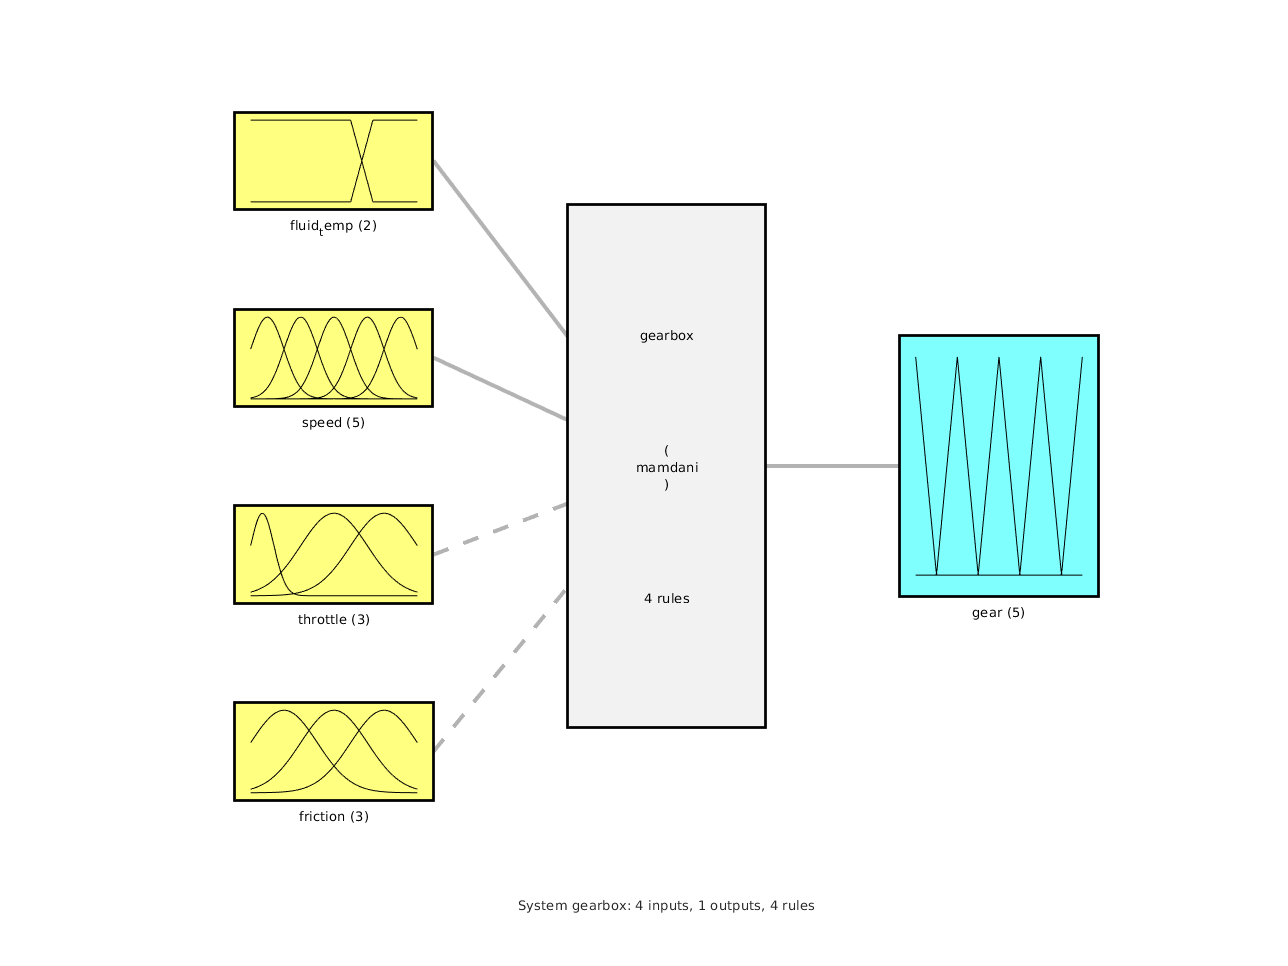
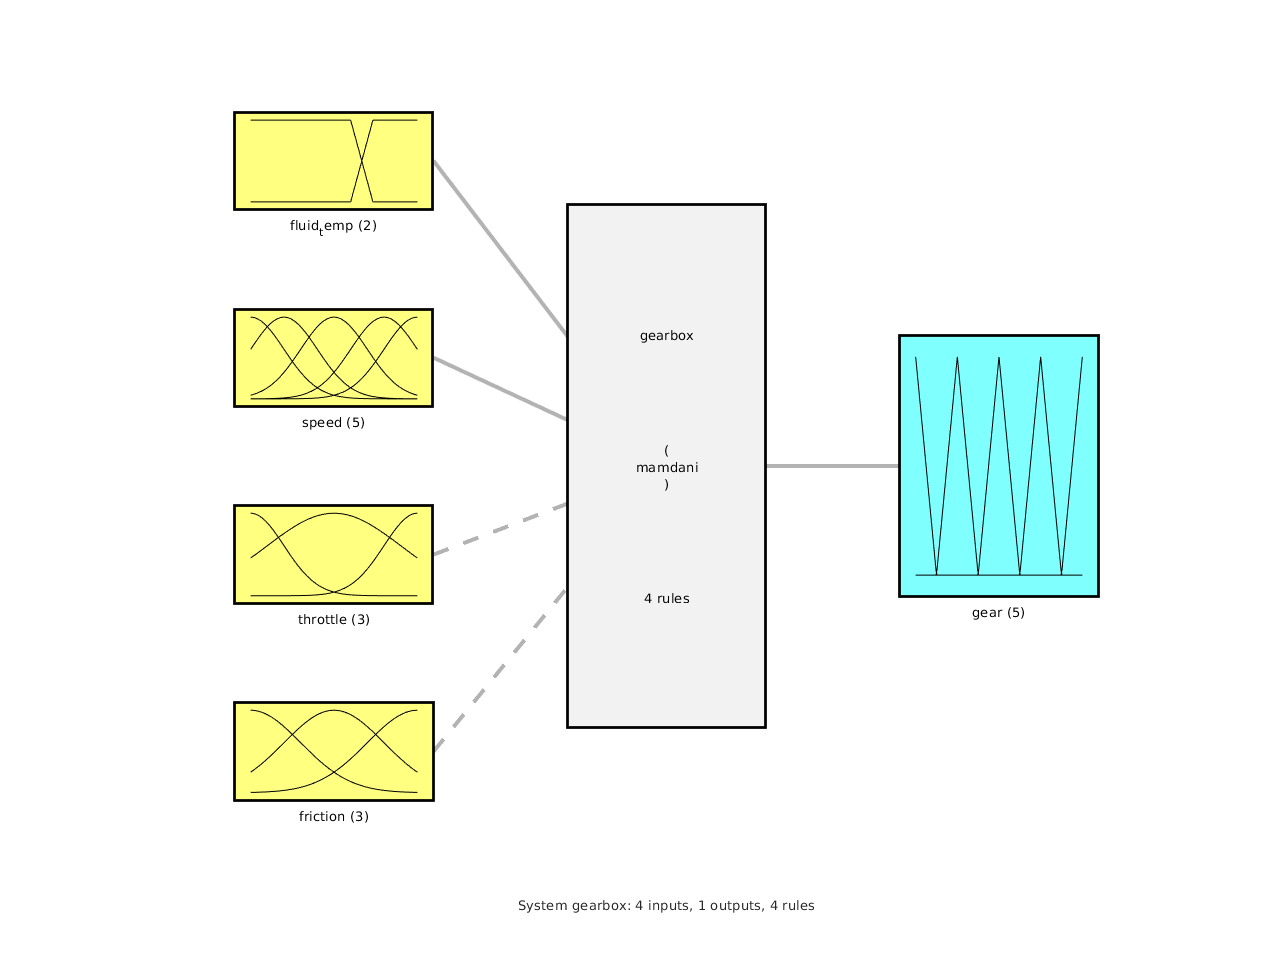
Made min and max linguistic variables mean at 0 and max.

diff --git a/gearbox.m b/gearbox.m
@@ -6,21 +6,21 @@ fis = addMF(fis,"fluid_temp","trapmf",[-2 0 90 110],'Name',"normal");
 fis = addMF(fis,"fluid_temp","trapmf",[90 110 150 150],'Name',"high");
 
 fis = addInput(fis, [0, 150], "Name", "speed");
-fis = addMF(fis,"speed","gaussmf",[15 15],'Name',"very slow");
-fis = addMF(fis,"speed","gaussmf",[15 45],'Name',"slow");
-fis = addMF(fis,"speed","gaussmf",[15 75],'Name',"moderate");
-fis = addMF(fis,"speed","gaussmf",[15 105],'Name',"fast");
-fis = addMF(fis,"speed","gaussmf",[15 135],'Name',"very fast");
+fis = addMF(fis,"speed","gaussmf",[30 0],'Name',"very slow");
+fis = addMF(fis,"speed","gaussmf",[30 30],'Name',"slow");
+fis = addMF(fis,"speed","gaussmf",[30 75],'Name',"moderate");
+fis = addMF(fis,"speed","gaussmf",[30 120],'Name',"fast");
+fis = addMF(fis,"speed","gaussmf",[30 150],'Name',"very fast");
 
 fis = addInput(fis, [0, 5], "Name", "throttle"); % Volts
-fis = addMF(fis,"throttle","gaussmf",[1 4],'Name',"open");
-fis = addMF(fis,"throttle","gaussmf",[1 2.5],'Name',"partially open");
-fis = addMF(fis,"throttle","gaussmf",[.35 .35],'Name',"closed");
+fis = addMF(fis,"throttle","gaussmf",[1 5],'Name',"open");
+fis = addMF(fis,"throttle","gaussmf",[2 2.5],'Name',"partially open");
+fis = addMF(fis,"throttle","gaussmf",[1 0],'Name',"closed");
 
 fis = addInput(fis, [0, 1], "Name", "friction");
-fis = addMF(fis,"friction","gaussmf",[.2 .2],'Name',"slippy");
-fis = addMF(fis,"friction","gaussmf",[.2 .5],'Name',"stable");
-fis = addMF(fis,"friction","gaussmf",[.2 .8],'Name',"rough");
+fis = addMF(fis,"friction","gaussmf",[.3 0],'Name',"slippy");
+fis = addMF(fis,"friction","gaussmf",[.3 .5],'Name',"stable");
+fis = addMF(fis,"friction","gaussmf",[.3 1],'Name',"rough");
 
 fis = addOutput(fis,[1 5],'Name',"gear");
 fis = addMF(fis,"gear","trimf",[1 1 1.5],'Name',"first");
